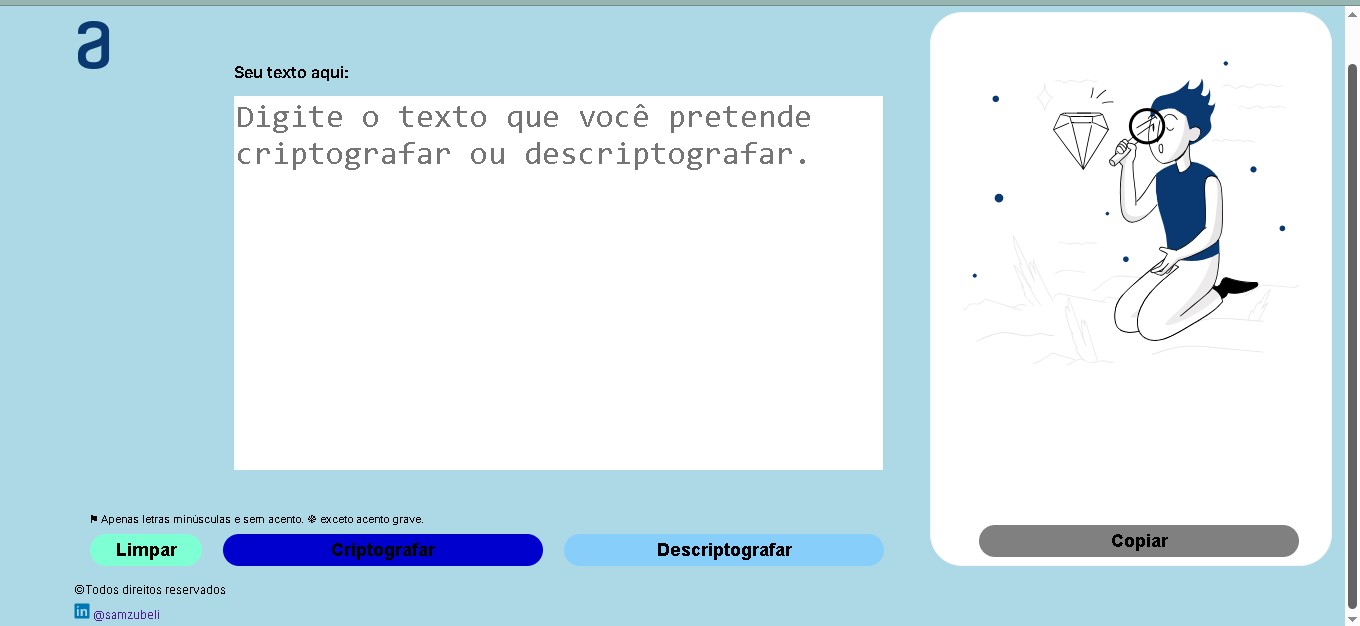
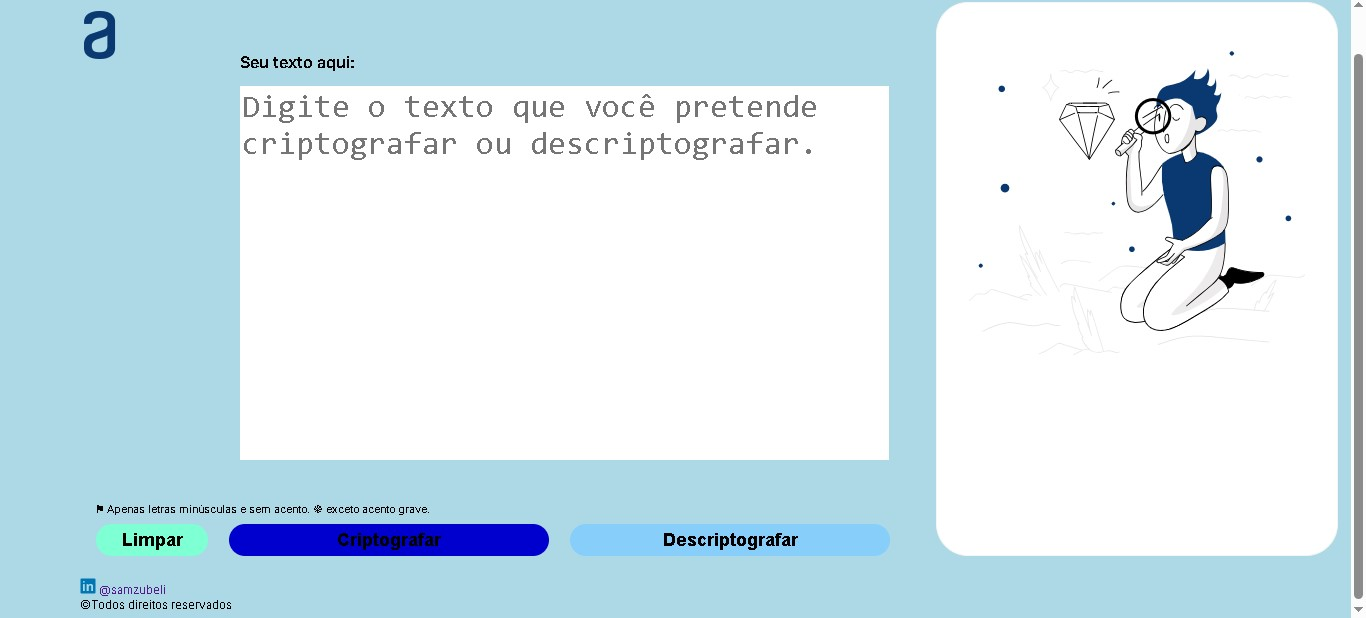
Correcao dos arquivos html e js.

diff --git a/js/cripto.js b/js/cripto.js
@@ -19,7 +19,7 @@ botaoCriptografar.addEventListener('click', () => criptoDescripto(input));
 botaoDescriptografar.addEventListener('click', () => criptoDescripto(input, false));
 botaoCopiar.addEventListener('click', () => copiar());
 
-// As funções que serão executadas ao acionar os botoes: limpar, criptografar,descriptografar e copiar.
+// As funções que serão executadas ao acionar os botoes: limpar, criptografar,descriptografar e copiar .
 function limpar() {
     input.disabled = false;
     botaoCriptografar.disabled = false;
@@ -45,7 +45,7 @@ function criptoDescripto(input, criptoDes = true) {
             apresentarResultado(auxiliarEncripto);
 
         } else {
-            apresentarResultadoError(); 
+            apresentarResultadoError();
         }
 
     } else {  // descriptografar o texto digitado .             
@@ -62,7 +62,7 @@ function verificarTextoDigitado(input) {
     let texto = input.value;
     for (let i = 0; i < texto.length; i++) {
         if ((texto.codePointAt(i) > 64 && texto.codePointAt(i) < 91)) return false; // letras maiúsculas nao sao permitidas .
-        if (!(texto.codePointAt(i) > 31 && texto.codePointAt(i) < 127)) return false; // caracteres não permitidos.
+        if (!(texto.codePointAt(i) > 31 && texto.codePointAt(i) < 127)) return false; // caracteres não permitidos .
     }
     return true;
 }
@@ -71,16 +71,19 @@ function apresentarResultado(params) {
     botaoCopiar.style.display = null;
     criptografadoImagemDaJovemComLupa.style.display = "none";
     resultado.style.display = null;
+    resultado.disabled = false;
     resultado.value = params;
+    resultado.disabled = true;
 }
 
-function apresentarResultadoError() {    
+function apresentarResultadoError() {
     botaoCriptografar.disabled = true;
     botaoDescriptografar.disabled = true;
-    botaoCopiar.disabled = true;   
+    botaoCopiar.disabled = true;
+    botaoCopiar.style.display = null;
     criptografadoImagemDaJovemComLupa.style.display = "none";
     resultado.style.display = null;
-    botaoCopiar.style.display = null;
+    resultado.disabled = false;
     resultado.style.color = '#ffabcd';
     resultado.style.fontWeight = '700';
     resultado.value = '\n\n Olhe o que você digitou: \n\n '.concat(input.value);

diff --git a/cripto.html b/cripto.html
@@ -18,12 +18,13 @@
     <main>
         <div id="texto-entrada">
             <label id="texto-entrada-label" for="texto-entrada-input">Seu texto aqui:</label>
-            <textarea id="texto-entrada-input" rows="10" cols="35" placeholder="Digite o texto que você pretende criptografar ou descriptografar."></textarea>
-        </div>       
+            <textarea id="texto-entrada-input" rows="10" cols="35"
+                placeholder="Digite o texto que você pretende criptografar ou descriptografar."></textarea>
+        </div>
 
         <section id="criptografado">
             <textarea id="criptografado-resultado" rows="10" cols="39"
-                placeholder="texto criptografado aqui."></textarea>           
+                placeholder="texto criptografado aqui."></textarea>
             <img id="criptografado-imagemDaJovemComLupa" src="./img/High quality products 1 1.svg"
                 alt="Imagem de uma jovem,portando uma lupa." />
             <div id="criptografado-botao">
@@ -39,11 +40,11 @@
         </section>
     </main>
     <footer id="rodape">
-       <div>&copy;Todos direitos reservados</div> 
-        <img id="rodape-rede-social" src="./img/linkedin.png" alt="simbolo da rede social linkedin"/> 
-        <a  id="rodape-link" href="https://www.linkedin.com/in/samzubeli" target="_blank"> @samzubeli </a>
+        <img id="rodape-rede-social" src="./img/linkedin.png" alt="simbolo da rede social linkedin" />
+        <a id="rodape-link" href="https://www.linkedin.com/in/samzubeli" target="_blank"> @samzubeli </a>
+        <div>&copy;Todos direitos reservados</div>
     </footer>
-   
+
 </body>
 
 </html>
